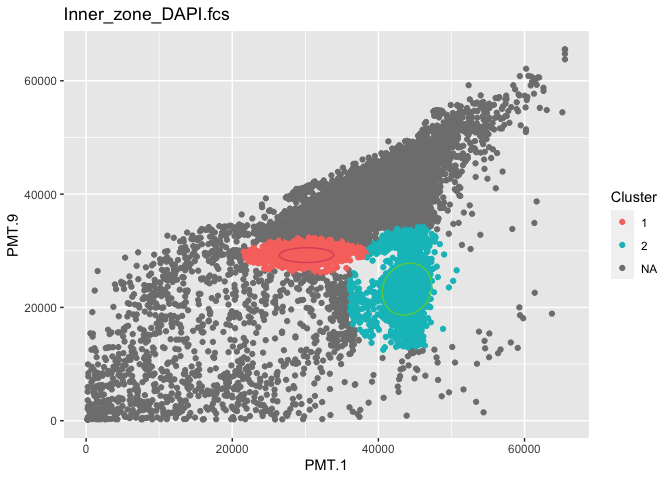
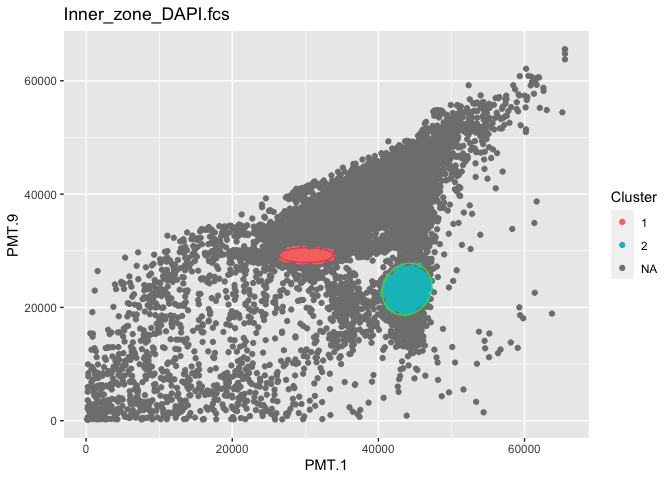
add file

Changed region(s): [[0.3438, 0.4688, 0.6875, 0.75]]

diff --git a/workflow/02a-flowEMMi-for-Z-project.md b/workflow/02a-flowEMMi-for-Z-project.md
@@ -1,6 +1,6 @@
 02a-flowEMMi for-Z-project
 ================
-Compiled at 2023-09-27 21:52:53 UTC
+Compiled at 2023-10-01 14:00:31 UTC
 
 ``` r
 here::i_am(paste0(params$name, ".Rmd"), uuid = "11675b32-9913-442e-9b4a-03cdc39afb65")
@@ -298,7 +298,7 @@ flowEMMi_mahalanobis <- function(data,data_name,gating_data,alpha){
   maha <- maha_data[,2:n_clusters] %>% as.data.frame()
   
   #set 95% quantile as cutoff value
-  threshold <- (-2*log(1-alpha))^2
+  threshold <- -2*log(1-alpha)
   
   #determine cluster
   for (cell in 1:n_cells){
@@ -321,7 +321,7 @@ flowEMMi_mahalanobis <- function(data,data_name,gating_data,alpha){
   
   area <- matrix(NA,nrow=nrow(eigen),ncol=1)
   for (i in 1:nrow(eigen)){
-    area[i,1] <- pi*sqrt(eigen[i,1]*eigen[i,2])
+    area[i,1] <- pi*sqrt(eigen[i,1]*eigen[i,2])*(-2*log(1-alpha))
   }
   
   area <- area %>% as.data.frame()
@@ -342,7 +342,7 @@ flowEMMi_mahalanobis <- function(data,data_name,gating_data,alpha){
   for (j in 2:num_ellipse){
     mu <- gating_data@mu[,j]
     sigma <- gating_data@sigma[[j]]
-    eli <- ellipse::ellipse(centre=mu,x=sigma,level=0.95,npoints=200) 
+    eli <- ellipse::ellipse(centre=mu,x=sigma,level=alpha,npoints=200) 
     eli <- as.data.frame(eli)
     colnames(eli)<- names
     plot1 <- plot1+geom_path(data = eli,
@@ -371,10 +371,10 @@ for (i in 1:5){
     ## 
     ## Table: Inner_zone_DAPI.fcs
     ## 
-    ## |Cluster | Cells|    Area|Coordinate          |
-    ## |:-------|-----:|-------:|:-------------------|
-    ## |1       | 13160| 2532838|(30167.85,29230.80) |
-    ## |2       |  2769| 8053710|(43911.46,23224.19) |
+    ## |Cluster | Cells|     Area|Coordinate          |
+    ## |:-------|-----:|--------:|:-------------------|
+    ## |1       |  8545| 15175410|(30167.85,29230.80) |
+    ## |2       |  1689| 48253516|(43911.46,23224.19) |
 
 ![](02a-flowEMMi-for-Z-project_files/figure-gfm/unnamed-chunk-2-1.png)<!-- -->
 
@@ -382,12 +382,12 @@ for (i in 1:5){
     ## 
     ## Table: Middle_zone_DAPI.fcs
     ## 
-    ## |Cluster | Cells|    Area|Coordinate          |
-    ## |:-------|-----:|-------:|:-------------------|
-    ## |1       |  1467| 3196472|(36365.59,21846.61) |
-    ## |2       | 21541| 1304691|(34085.22,34371.43) |
-    ## |3       |  4803| 9876381|(45263.90,23994.94) |
-    ## |4       |  8473| 3345811|(32839.19,30095.37) |
+    ## |Cluster | Cells|     Area|Coordinate          |
+    ## |:-------|-----:|--------:|:-------------------|
+    ## |1       |  1155| 19151548|(36365.59,21846.61) |
+    ## |2       | 15307|  7817008|(34085.22,34371.43) |
+    ## |3       |  3082| 59173988|(45263.90,23994.94) |
+    ## |4       |  4703| 20046310|(32839.19,30095.37) |
 
 ![](02a-flowEMMi-for-Z-project_files/figure-gfm/unnamed-chunk-2-2.png)<!-- -->
 
@@ -395,11 +395,11 @@ for (i in 1:5){
     ## 
     ## Table: Outer_zone_DAPI.fcs
     ## 
-    ## |Cluster | Cells|      Area|Coordinate          |
-    ## |:-------|-----:|---------:|:-------------------|
-    ## |1       | 26808| 1348901.9|(33020.97,34213.14) |
-    ## |2       |  7949| 2416321.3|(32506.72,29437.35) |
-    ## |3       |   344|  771055.4|(29304.09,40409.62) |
+    ## |Cluster | Cells|     Area|Coordinate          |
+    ## |:-------|-----:|--------:|:-------------------|
+    ## |1       | 17819|  8081898|(33020.97,34213.14) |
+    ## |2       |  4074| 14477303|(32506.72,29437.35) |
+    ## |3       |   232|  4619751|(29304.09,40409.62) |
 
 ![](02a-flowEMMi-for-Z-project_files/figure-gfm/unnamed-chunk-2-3.png)<!-- -->
 
@@ -407,12 +407,12 @@ for (i in 1:5){
     ## 
     ## Table: Surrounding_DAPI.fcs
     ## 
-    ## |Cluster | Cells|       Area|Coordinate          |
-    ## |:-------|-----:|----------:|:-------------------|
-    ## |1       | 10304| 10640233.6|(25975.69,21847.05) |
-    ## |2       | 14688|  1349130.7|(34589.90,34715.69) |
-    ## |3       |  1476|   968468.4|(29311.44,40500.45) |
-    ## |4       |  2325|  3845193.1|(22125.31,25532.17) |
+    ## |Cluster | Cells|     Area|Coordinate          |
+    ## |:-------|-----:|--------:|:-------------------|
+    ## |1       |  4792| 63750583|(25975.69,21847.05) |
+    ## |2       |  9255|  8083269|(34589.90,34715.69) |
+    ## |3       |  1325|  5802544|(29311.44,40500.45) |
+    ## |4       |  1426| 23038338|(22125.31,25532.17) |
 
 ![](02a-flowEMMi-for-Z-project_files/figure-gfm/unnamed-chunk-2-4.png)<!-- -->
 
@@ -420,14 +420,14 @@ for (i in 1:5){
     ## 
     ## Table: Whole_colony_DAPI.fcs
     ## 
-    ## |Cluster | Cells|       Area|Coordinate          |
-    ## |:-------|-----:|----------:|:-------------------|
-    ## |1       |    47|   660568.9|(3077.87,1911.78)   |
-    ## |2       |   287|  5809990.7|(20203.14,25677.31) |
-    ## |3       | 18278|  1345407.4|(34582.00,34716.91) |
-    ## |4       |   340|  1013331.3|(29308.43,40497.37) |
-    ## |5       |  6703| 16642613.7|(24986.19,21556.94) |
-    ## |6       |   523|  2482614.4|(9702.70,1635.15)   |
+    ## |Cluster | Cells|     Area|Coordinate          |
+    ## |:-------|-----:|--------:|:-------------------|
+    ## |1       |    21|  3957775|(3077.87,1911.78)   |
+    ## |2       |    52| 34810353|(20203.14,25677.31) |
+    ## |3       |  6624|  8060961|(34582.00,34716.91) |
+    ## |4       |   275|  6071338|(29308.43,40497.37) |
+    ## |5       |   244| 99713630|(24986.19,21556.94) |
+    ## |6       |   126| 14874496|(9702.70,1635.15)   |
 
 ![](02a-flowEMMi-for-Z-project_files/figure-gfm/unnamed-chunk-2-5.png)<!-- -->
 
